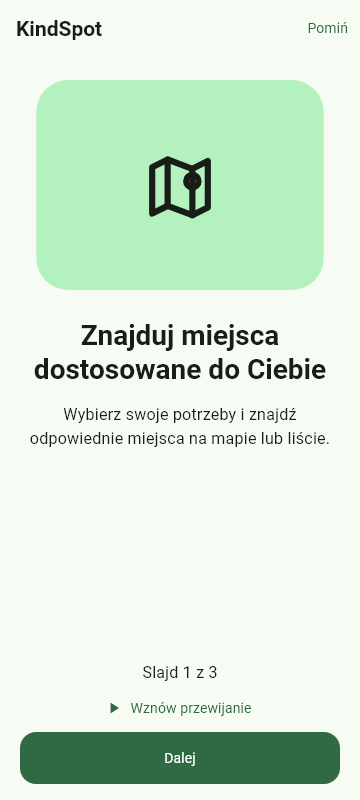
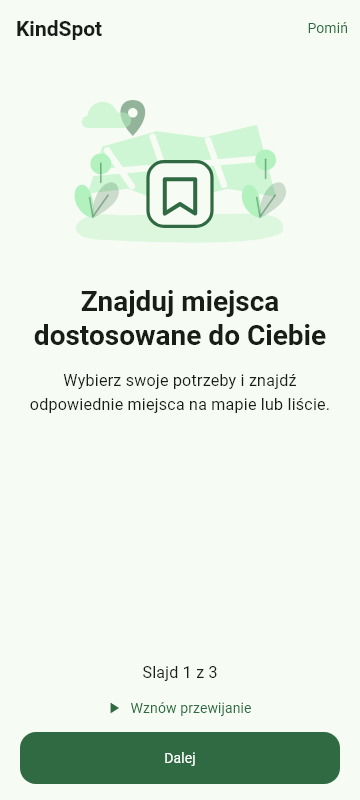
Animacja na start aplikacji

Changed region(s): [[0.0917, 0.0938, 0.9167, 0.5625]]

diff --git a/frontend/docs/Teoria Aplikacji.md b/frontend/docs/Teoria Aplikacji.md
@@ -253,3 +253,9 @@ Decyzja użytkownika zastępuje wcześniejszy zamysł Pomocnika: każdy może wy
 Usunięto powtarzane banery wersji demonstracyjnej z ikoną kolby. Adnotacja konta testowego w profilu pozostaje. Informacje o rzeczywistych ograniczeniach operacji (nieważny kod/testowy operator karty/lokalny zapis) pozostają przy tych operacjach; nie oznacza to wdrożenia produkcyjnego.
 
 Pytania ankiety używają zatwierdzonych SVG cech (12 pytań; aliasy elevator/lift oraz quiet_environment/quiet). Ikona uzupełnia tekst, nie zastępuje etykiety. Kolory wynikają z motywu, ikony dekoracyjne nie powtarzają treści czytnikowi; nagłówek zawija się przy powiększonym tekście. Dane i punktacja ankiety bez zmian.
+
+## Dopracowanie ilustracji wprowadzenia — 2026-10-04
+
+Na prośbę użytkownika symbole w kafelkach zastąpiono małymi ilustracjami scen w stylu dostarczonego przykładu: mapa z zakładką i roślinami, ankieta z ołówkiem, prezent z punktami. Obszar grafiki 256 × 176 px. Usunięto tło-kafelek widgetu oraz biały panel z grafiki nagrody; SVG mają transparentną przestrzeń wokół sceny. Kolory i delikatne wypełnienia nadal wynikają z ról motywu; nie wymagają kolejnych eksportów przy dodaniu koloru. Zachowano warianty spokojne i monochromatyczne. Źródło scen: frontend/design/graphics/source/refresh_introduction_art.py.
+
+Zachowanie pierwszego uruchomienia, automatyka, flaga ukończenia i punktacja bez zmian. Sprawdzenie: 8 testów wprowadzenia, zasobów i podglądu poprawnych; flutter analyze bez uwag. Oceniono rzeczywiste zrzuty trzech slajdów Flutter. Testy na urządzeniu nadal wymagają użytkownika; emulatora nie uruchamiano.

diff --git a/frontend/docs/KindSpot-checkpointy.md b/frontend/docs/KindSpot-checkpointy.md
@@ -332,3 +332,6 @@ Włączono transport HTTP, sesję, profil/filtry, miejsca/listę/mapę/zapisane,
 Sprawdzenia: 175 testów Flutter, analiza bez uwag; 32 testy backendu bez bazy i Ruff poprawne. Próba HTTP konfiguracji/OpenAPI/health oraz ochrony /me przeszła bez PostgreSQL. Pełny przebieg z bazą i urządzeniem pozostaje do wykonania: brak konfiguracji PostgreSQL i wskazanego adresu serwera. Nie uruchamiano emulatora. Zmiany lokalne Frontend, bez commita/push. Pełny zakres, polecenia i checklista: frontend/docs/KindSpot-integracja-FastAPI.md.
 
 Integracja 2026-10-04 — kompilacje: APK debug sukces (189808058 bajtów, 06:32:17, Gradle1536MB/2workery); web release sukces w odizolowanej kopii z rusztowaniem web jak w CI. 175 testów Flutter i 32 bezbazowe backendu poprawne. Flutter analyze i Ruff poprawne. Test PostgreSQL/live backend nadal niewykonany. Raport frontend/docs/KindSpot-integracja-FastAPI.md. Bez emulatora/instalacji/publikacji/commita/push.
+
+
+Weryfikacja zmiany społeczności/ikon 2026-10-04: 180 testów Flutter przeszło, flutter analyze bez uwag, 32 testy backendu bez bazy poprawne i Ruff bez uwag. Sprawdzono pytanie z zatwierdzoną ikoną przy 320 px i tekście 200%, zachowano etykietę i nagłówek czytnika. Usunięcie roli nie usuwa prywatnych potrzeb ani ustawień dostępności. Aktualne APK jest budowane; wynik należy potwierdzić osobno. Testy urządzenia/czytnika oraz PostgreSQL nadal niewykonane. Emulatora nie uruchamiano.

diff --git a/frontend/docs/KindSpot-dostepnosc-checkpoint.md b/frontend/docs/KindSpot-dostepnosc-checkpoint.md
@@ -84,3 +84,6 @@ Użytkownik odłożył końcową grafikę do późniejszej pracy innej osoby i z
 
 
 2026-10-04: nowe ekrany API sprawdzono testami logowania przy 200% tekstu i ankiety z zachowaniem odpowiedzi po błędzie. 175 testów Flutter przeszło. To częściowa weryfikacja; czytniki, urządzenie, klawiatura całego nowego przebiegu i pełny odbiór WCAG pozostają niewykonane. Raport KindSpot-integracja-FastAPI.md.
+
+
+Weryfikacja zmiany społeczności/ikon 2026-10-04: 180 testów Flutter przeszło, flutter analyze bez uwag, 32 testy backendu bez bazy poprawne i Ruff bez uwag. Sprawdzono pytanie z zatwierdzoną ikoną przy 320 px i tekście 200%, zachowano etykietę i nagłówek czytnika. Usunięcie roli nie usuwa prywatnych potrzeb ani ustawień dostępności. Aktualne APK jest budowane; wynik należy potwierdzić osobno. Testy urządzenia/czytnika oraz PostgreSQL nadal niewykonane. Emulatora nie uruchamiano.
